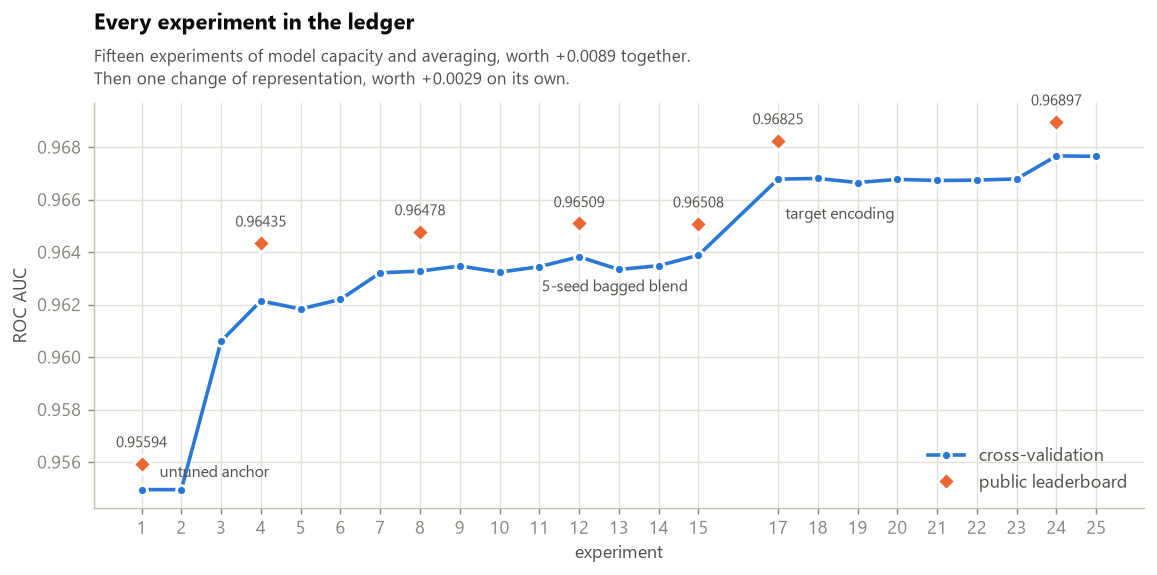
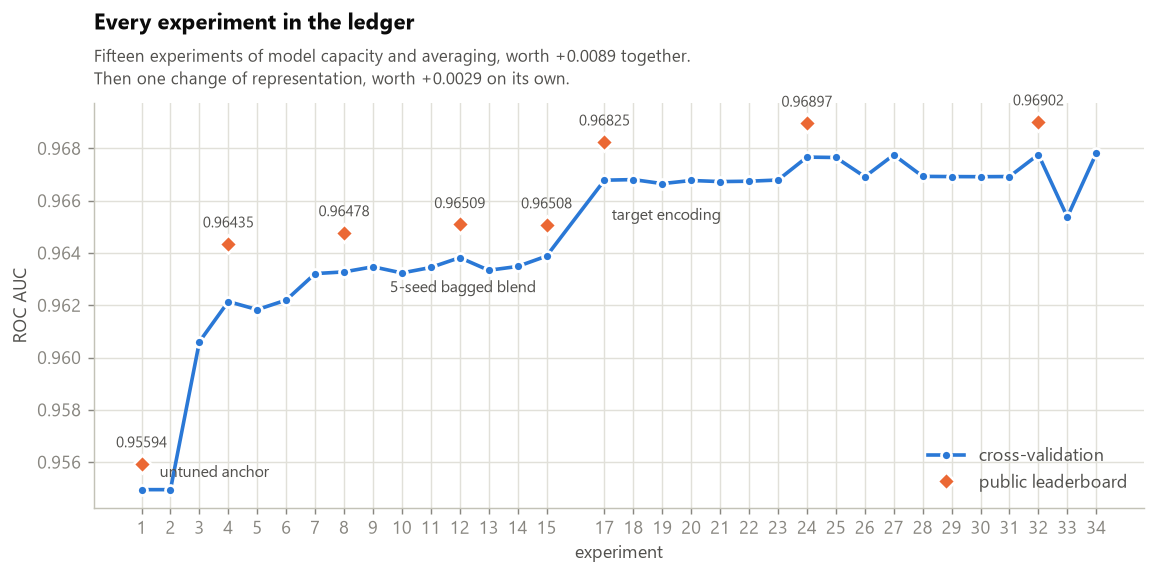
add reopenings figure, fix stack total to 0.000157

Changed region(s): [[0.0311, 0.1478, 0.9646, 0.8574], [0.1556, 0.887, 0.9646, 0.9461], [0.0311, 0.5026, 0.0622, 0.5322]]

diff --git a/writeup/figures.py b/writeup/figures.py
@@ -238,8 +238,71 @@ fig.tight_layout()
 fig.savefig(OUTDIR / "fig5_stack.png", bbox_inches="tight")
 plt.close(fig)
 
+
+# -------------------------------------------------------------- fig 6: the reopenings
+# The second half of the correction. Left: CatBoost on the features it had never been
+# tried on, five seeds each so the spread is visible and not just the level. Right: what
+# each addition to the stack was actually worth, which is the number that keeps the
+# section honest.
+r = D["reopenings"]
+cat = r["catboost"]
+lgb_seeds = sorted(D["target_encoding"]["seed_cv"].values())
+cat_seeds = sorted(cat["seed_cv"].values())
+
+fig, axes = plt.subplots(1, 2, figsize=(11.5, 4.9))
+
+ax = axes[0]
+for i, (vals, colour, lbl) in enumerate([(lgb_seeds, MUTED, "LightGBM"),
+                                         (cat_seeds, BLUE, "CatBoost")]):
+    ax.plot(vals, [i] * len(vals), "o", color=colour, ms=9, alpha=0.85, lw=0, zorder=3)
+    m = sum(vals) / len(vals)
+    ax.plot([m], [i], "|", color=INK, ms=26, mew=2, zorder=4)
+    ax.annotate(f"{lbl}   spread {max(vals) - min(vals):.1e}", (m, i),
+                textcoords="offset points", xytext=(0, 17), ha="center",
+                fontsize=9.5, color=SECOND)
+ax.set_yticks([0, 1])
+ax.set_yticklabels([])
+ax.set_ylim(-0.6, 1.7)
+ax.set_xlabel("cross-validation AUC, five model seeds each")
+ax.grid(axis="y", visible=False)
+finish(ax, "CatBoost, on the features it was never tried on",
+       f"Family means differ by {cat['gap']:+.6f}, "
+       f"{cat['gap_in_se']:.1f} standard errors.\n"
+       f"On the raw features it had lost by 0.001675.")
+
+ax = axes[1]
+cur = D["stack_curve"]
+xs = [c["n"] for c in cur]
+ys = [c["cv"] for c in cur]
+ax.plot(xs, ys, "-o", color=BLUE, ms=8, lw=2, zorder=3)
+for c in cur:
+    if c["step"]:
+        ax.annotate(f"{c['step']['gain']:+.6f}", (c["n"], c["cv"]),
+                    textcoords="offset points", xytext=(-6, 10), ha="right",
+                    fontsize=9, color=SECOND)
+ax.annotate("eighteen members,\nwhere the correction ended", (xs[0], ys[0]),
+            textcoords="offset points", xytext=(14, -4), fontsize=9, color=SECOND,
+            linespacing=1.35)
+ax.set_xticks(xs)
+ax.set_xlabel("members in the stack")
+ax.set_ylabel("stack CV, combiner fit inside the fold loop")
+finish(ax, "Every addition after the first is worth less",
+       "Two rejected models earned back, one of them the largest single-model\n"
+       f"gain of the competition, for {ys[-1] - ys[0]:+.6f} of stack CV in total.")
+fig.tight_layout()
+fig.savefig(OUTDIR / "fig6_reopenings.png", bbox_inches="tight")
+plt.close(fig)
+
 print("wrote fig1_ledger.png fig2_missingness.png fig3_blend.png fig4_seeds.png "
-      "fig5_stack.png")
+      "fig5_stack.png fig6_reopenings.png")
 print(f"  r(spearman, gain) all pairs = {r_all:+.3f}")
 print(f"  r(spearman, gain) homogeneous = {r_hom:+.3f}  n={len(homog)}")
 print(f"  r(cv gap, gain) = {r_gap:+.3f}")
+nte = r["neural"]
+print(f"  catboost family gap {cat['gap']:+.6f} at {cat['gap_in_se']:.1f} se, "
+      f"seed spread {cat['range']:.2e} vs LightGBM {cat['lgb_range']:.2e}")
+print(f"  neural {nte['cv_raw']:.6f} -> {nte['cv_te']:.6f} "
+      f"({nte['paired']['gain']:+.6f})")
+print(f"  stack curve " + " ".join(f"{c['n']}:{c['cv']:.6f}" for c in cur))
+print(f"  total bought by both reopenings: "
+      f"{cur[-1]['cv'] - cur[0]['cv']:+.6f} of stack CV")
